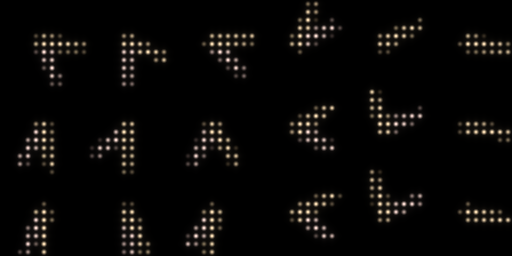
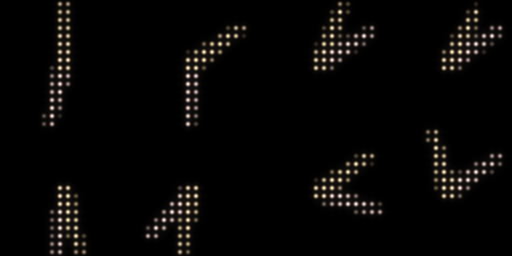
clocks-dials defaults to 4 x 2; its README render and the gallery redone
The larger dials were the owner's pick for the default. The two tests that
pin patch defaults now say so; the range and the other two grids are as
they were.

Claude-Session: https://claude.ai/code/session_01KYxFs6ukLyJ3fjwJEvUCMa

diff --git a/crates/art/src/patch.rs b/crates/art/src/patch.rs
@@ -425,7 +425,7 @@ mod tests {
         // grid: the three grids, written the way a person says them.
         let grid = by_id(&crate::patches::clocks::dials::DEF, "grid");
         assert_eq!(grid.choices, ["4 x 2", "6 x 3", "8 x 4"]);
-        assert_eq!((grid.min, grid.max, grid.default), (0.0, 2.0, 1.0), "the range and default are card 100's");
+        assert_eq!((grid.min, grid.max, grid.default), (0.0, 2.0, 0.0), "the range is card 100's; the default became 4 x 2 on 2026-09-25");
     }
 
     /// Nothing card 163 touched changed a patch's behaviour: every id, range,
@@ -436,7 +436,7 @@ mod tests {
             ("clocks-numerals", "dance", 0.0, 13.0, 1.0, 0.0),
             ("clocks-numerals", "rest", 0.0, 4.0, 1.0, 2.0),
             ("clocks-numerals", "hours24", 0.0, 1.0, 1.0, 1.0),
-            ("clocks-dials", "grid", 0.0, 2.0, 1.0, 1.0),
+            ("clocks-dials", "grid", 0.0, 2.0, 1.0, 0.0), // default 6 x 3 -> 4 x 2, 2026-09-25
             ("clocks-dials", "mood", 0.0, 8.0, 1.0, 0.0),
         ];
         for (patch, id, min, max, step, default) in want {

diff --git a/crates/art/src/patches/clocks/dials.rs b/crates/art/src/patches/clocks/dials.rs
@@ -46,7 +46,7 @@ pub const DEF: PatchDef = PatchDef {
 };
 
 const PARAMS: &[ParamSpec] = &[
-    choice("grid", "Dials", GRID_CHOICES, 1.0),
+    choice("grid", "Dials", GRID_CHOICES, 0.0),
     choice("mood", "Mood", MOOD_CHOICES, 0.0),
     param("dwell", "Seconds in a mood", 8.0, 120.0, 1.0, 32.0),
     param("tell", "Tell the time every (s, 0 = never)", 0.0, 600.0, 5.0, 60.0),
@@ -125,7 +125,7 @@ struct Flow {
 fn make(seed: u64) -> Box<dyn Patch> {
     let mut rng = Rng::new(seed);
     let mood = REPERTOIRE[(rng.u64() % REPERTOIRE.len() as u64) as usize];
-    let grid = 1;
+    let grid = 0;
     let field = Ambient::new(&mut rng, mood, GRIDS[grid].0, GRIDS[grid].1, W as f32 / GRIDS[grid].0 as f32);
     eprintln!("dials: t=0 {}", field.name());
     Box::new(Flow { rng, grid, angles: rest(GRIDS[grid]), field, mood, change_at: -1.0, variety: Default::default(), tinge: None, doing: String::new(), move_on: false })
